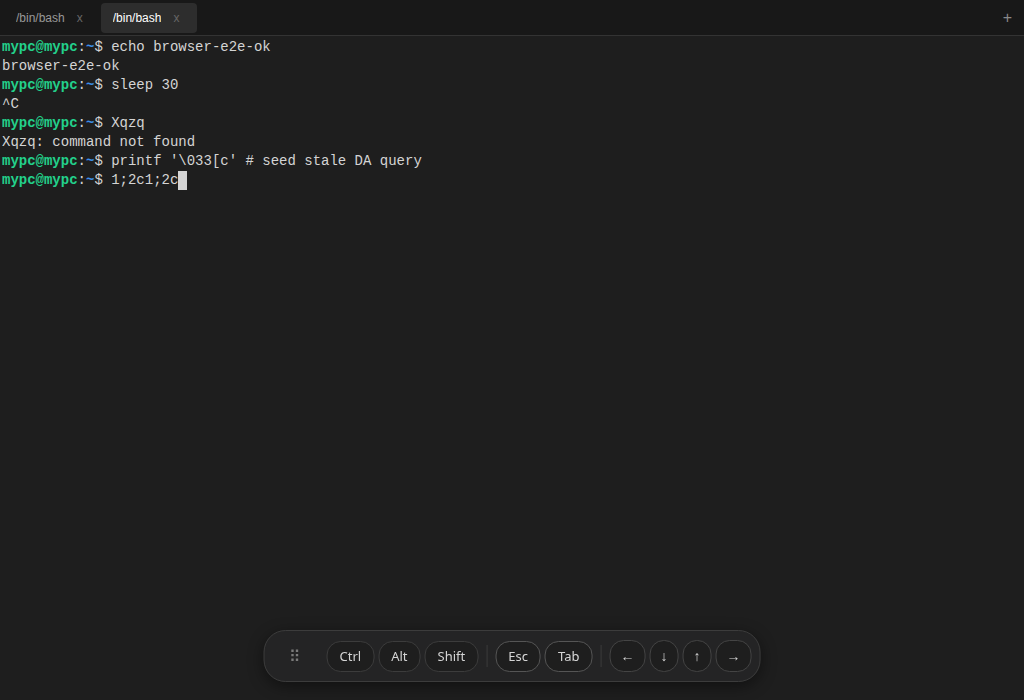
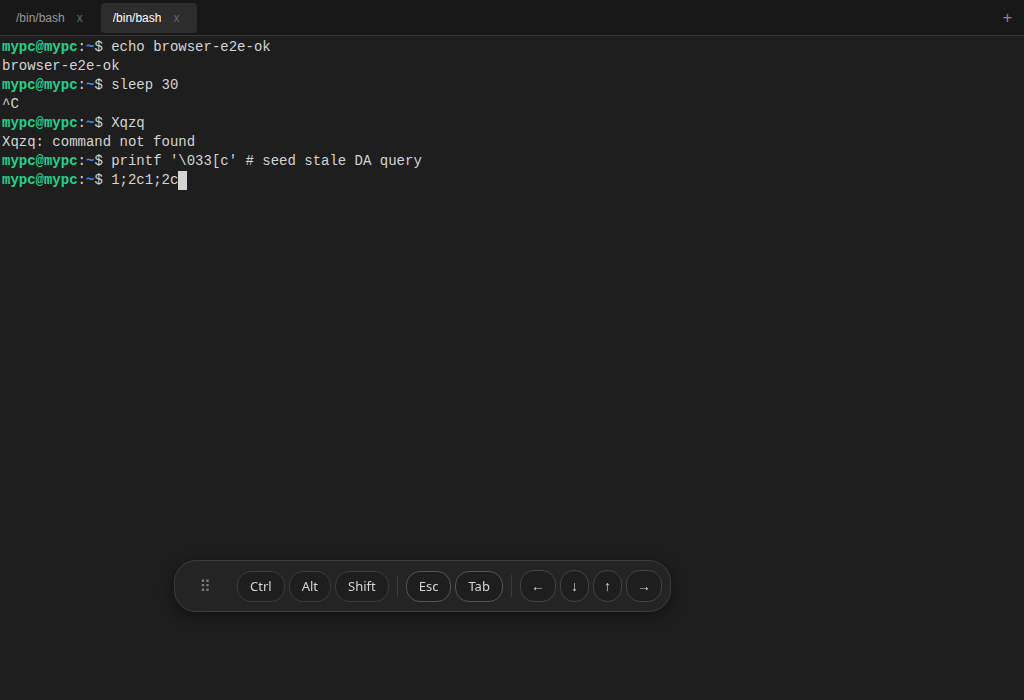
chore: delivery-standard quality audit — stricter tsc gates, widget fixes
Audit the codebase against the project's own delivery standard and fix
what it surfaced:

- compile gates: noUnusedLocals / noUnusedParameters / noImplicitOverride
  / noFallthroughCasesInSwitch on top of strict; removed the one unused
  import it caught (SESSION_COOKIE in remoteServer); whole tree clean
- real defect: the soft-key bar defaulted to bottom-center via
  translateX(-50%); dropping the transform without converting the visual
  rect into layout coords made the bar jump half its width right on the
  first tap/resize. Now dropTransform() reads getBoundingClientRect()
  first — locked by a new e2e regression (tap leaves position bit-identical)
- robustness: setPointerCapture wrapped (synthetic pointers cannot be
  captured; drag still works via bubbling); QR-window tip newline uses
  split/join instead of single replace
- console noise: auth page declares a data: favicon — no more browser
  /favicon.ico 404 in e2e logs
- browser e2e 17 -> 21: tap stability, drag-to-localStorage persistence,
  position restore after reload, pending-combo cleared on tab switch

Verification: tsc clean under the stricter flags; verify umbrella 53/53;
smoke-e2e ALL PASS; browser-e2e 21/21 with zero console errors.

diff --git a/src/web/softKeys.ts b/src/web/softKeys.ts
@@ -82,7 +82,12 @@ export function mountSoftKeys(app: TerminalApp): HTMLElement {
     const rect = bar.getBoundingClientRect();
     offX = e.clientX - rect.left;
     offY = e.clientY - rect.top;
-    bar.setPointerCapture(e.pointerId);
+    try {
+      bar.setPointerCapture(e.pointerId);
+    } catch {
+      // Synthetic/testing pointers may not be capturable — drag still
+      // works via bubbling listeners on the bar.
+    }
     e.preventDefault();
   };
   (bar.querySelector('.sk-handle') as HTMLButtonElement).addEventListener(
@@ -152,13 +157,20 @@ export function mountSoftKeys(app: TerminalApp): HTMLElement {
     }
   }
   restorePos();
-  // Dragging switches to explicit coords — drop the centering transform.
-  bar.addEventListener('pointerdown', () => {
+  // Dropping the centering transform must first convert the VISUAL
+  // position (rect includes the translateX) into layout coords —
+  // otherwise the bar jumps right by half its width.
+  const dropTransform = (): void => {
+    if (bar.style.transform === 'none') return;
+    const r = bar.getBoundingClientRect();
     bar.style.transform = 'none';
-  }, { once: true });
+    positionBar(r.left, r.top);
+  };
+  bar.addEventListener('pointerdown', dropTransform, { once: true });
   window.addEventListener('resize', () => {
-    positionBar(bar.offsetLeft, bar.offsetTop); // re-clamp into viewport
-    if (bar.style.transform !== 'none') bar.style.transform = 'none';
+    const r = bar.getBoundingClientRect();
+    bar.style.transform = 'none';
+    positionBar(r.left, r.top); // re-clamp into viewport
   });
 
   // ---- safety: never leak a pending combo across focus/visibility loss ----

diff --git a/src/main/remoteServer.ts b/src/main/remoteServer.ts
@@ -20,7 +20,7 @@ import { URL } from 'url';
 import { WebSocketServer, WebSocket } from 'ws';
 import { SessionRegistry } from './sessionRegistry';
 import { t, Locale, detectLocale } from '../shared/i18n';
-import { AuthManager, SESSION_COOKIE } from './authManager';
+import { AuthManager } from './authManager';
 import type { SessionInfo, DataPayload, ExitPayload, TitlePayload } from '../shared/ipcChannels';
 import {
   WS,
@@ -513,6 +513,7 @@ function authPageHtml(locale: Locale, fingerprint: string, badToken: boolean, lo
 <html lang="en">
 <head>
 <meta charset="UTF-8">
+<link rel="icon" href="data:,">
 <meta name="viewport" content="width=device-width, initial-scale=1.0">
 <title>${t(L, 'auth.title')}</title>
 <style>

diff --git a/src/main/tray.ts b/src/main/tray.ts
@@ -202,7 +202,7 @@ function accessInfoHtml(info: {
 <body>
   <h1>${t(L, 'info.heading')}</h1>
   <div class="qr">${qr}</div>
-  <div class="tip">${t(L, 'info.tip').replace('\n', '<br>')}</div>
+  <div class="tip">${t(L, 'info.tip').split('\n').join('<br>')}</div>
   <div class="row"><b>${t(L, 'info.url')}</b><code>${info.url}</code></div>
   <div class="row"><b>${t(L, 'info.token')}</b><code>${info.token}</code></div>
   <div class="row"><b>${t(L, 'info.fp')}</b><code>${info.fingerprint}</code></div>

diff --git a/docs/verification-standard.md b/docs/verification-standard.md
@@ -38,7 +38,7 @@
 | `scripts/verify-ratelimit.mjs` | 5 次/分阈值触发与 1 分钟解锁 | 同上 |
 | `scripts/verify-ws-protocol.mjs` | 未认证拒握手、list/attach/input/resize、畸形消息断链、心跳超时 | 同上 |
 | `scripts/verify-reconnect.mjs` | 模拟断链→重连→attach→replay 与断链前输出衔接 | 同上 |
-|  `scripts/verify-browser-e2e.mjs` | **真浏览器全流程**（`npm run verify:browser`）：未认证重定向、鉴权页与指纹核对、错令牌/**二维码式 `#T=` 片段 URL 自动登录**、标签栏与 UI 按钮、cookie 三属性、xterm 键入→PTY→bash→渲染回显、**刷新后恢复且不新建标签、刷新零陈旧查询注入（无 `1;2c` 垃圾）**、软键盘真实 Ctrl+C 中断 sleep + 一次性复位；产截图 `docs/test-reports/screenshots/` | 同上 |
+|  `scripts/verify-browser-e2e.mjs` | **真浏览器全流程**（`npm run verify:browser`）：未认证重定向、鉴权页与指纹核对、错令牌/**二维码式 `#T=` 片段 URL 自动登录**、标签栏与 UI 按钮、cookie 三属性、xterm 键入→PTY→bash→渲染回显、**刷新后恢复且不新建标签、刷新零陈旧查询注入（无 `1;2c` 垃圾）**、软键盘真实 Ctrl+C 中断 sleep + 一次性复位、悬浮条位置稳定/拖动持久化/重载恢复、切标签清组合键；产截图 `docs/test-reports/screenshots/` | 同上 |
 
 脚本运行前置：`verify-ringbuffer/registry/ratelimit/ws-protocol/reconnect`
 仅依赖 `node`（≥18）与仓库 `node_modules`，自起最小 Registry/Server 实例；

diff --git a/docs/test-reports/M4-report.md b/docs/test-reports/M4-report.md
@@ -76,6 +76,22 @@ verify-reconnect.mjs 场景（TC-M4-05/08 核心，真传输类）：
 二维码。`/login` 保留为 GET 别名。测试全部随迁：verify:m3 31 项、
 smoke、browser-e2e（新增"QR 式片段 URL 自动登录"用例，13/13 ×N）。
 
+## 10. 补遗：交付标准代码质量审计
+
+按交付标准对代码质量做了一轮严格审计：
+- **编译门槛升级**：tsconfig 在 strict 之上加 `noUnusedLocals` /
+  `noUnusedParameters` / `noImplicitOverride` / `noFallthroughCasesInSwitch`，
+  清除 1 处未用导入（remoteServer `SESSION_COOKIE`）后全库零错误
+- **真缺陷修复**：悬浮条默认居中靠 `translateX(-50%)`，此前"首次点击/首次
+  resize 直接去 transform"会把条向右弹半宽 —— 现先按视觉矩形换算布局坐标再
+  去 transform（e2e 加回归：点击后位置逐位不变）
+- **健壮性**：`setPointerCapture` 包 try/catch（合成指针不可捕获时拖拽仍
+  经冒泡生效）；二维码窗口提示换行改 split/join（原 replace 只处理首个 \n）
+- **噪音清零**：鉴权页补 `<link rel=icon data:,>`，消除浏览器自动请求
+  `/favicon.ico` 的 404 控制台噪音
+- **e2e 17→21**：+悬浮条位置稳定 / 拖动落 localStorage / 重载恢复 /
+  切标签清粘滞组合键
+
 ## 9. 补遗：Web 端软键盘（Ctrl/Alt/Shift 组合键，用户需求迭代）
 
 移动端无法发送组合键 → 可拖动悬浮条（Ctrl/Alt/Shift 粘滞开关 +

diff --git a/CLAUDE.md b/CLAUDE.md
@@ -16,11 +16,14 @@ npm run build:renderer # Build renderer process only
 npm run rebuild      # electron-rebuild — REQUIRED after installing/upgrading Electron or node-pty (native module)
 npm run pack         # Build + electron-builder for Windows and Linux
 npm run pack:linux   # Build + Linux packages (AppImage + deb)
-npm run verify:m1|m3|m4|browser   # Milestone verification suites (exit 0/1)
+npm run verify                # umbrella: m1+m3+m4+softkeys (exit 0/1)
+npm run verify:m1|m3|m4|browser|softkeys  # individual suites
 node scripts/smoke-e2e.mjs        # Real Electron + real bash + TLS e2e
 ```
 
-No linter. Verification is script-based (`N/M passed`, exit code 0/1) — see
+No linter — the quality gates are `tsc --noEmit` (strict + noUnusedLocals/
+noUnusedParameters/noImplicitOverride/noFallthroughCasesInSwitch) and the
+script suites (`N/M passed`, exit code 0/1) — see
 `docs/verification-standard.md`. Run the full matrix when touching the
 transport seam, registry, or remote server.
 
